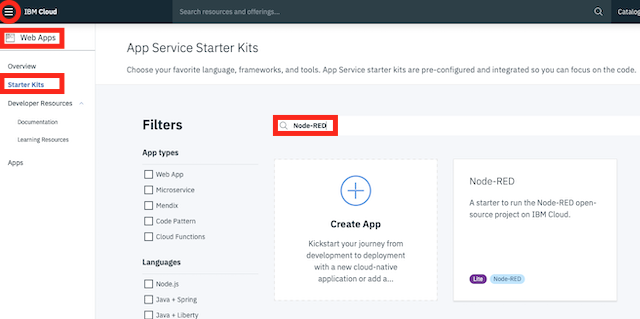
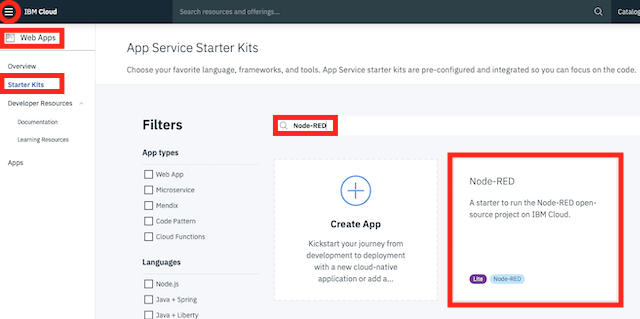
review changes

Changed region(s): [[0.6875, 0.4514, 1.0, 0.9875]]

diff --git a/en/part1/IOTCLOUD.md b/en/part1/IOTCLOUD.md
@@ -4,15 +4,14 @@
 **Part 1** - [Setup](PREREQ.md) - [First App](FIRSTAPP.md) - [WIFI](WIFI.md) - [LED](LED.md) - [DHT](DHT.md) - [**Cloud**](IOTCLOUD.md)
 ***
 
-# Deploying an application to the IBM Cloud
+# Deploying a Web App starter application to the IBM Cloud
 
 ## Lab Objectives
 
 In this lab you will learn how to deploy a starter application to the IBM Cloud.  You will learn:
 
 - How to access the cloud and set the desired location to work in
-- Access the catalog of services and select a Starter Kit to deploy
-- Deploy a Starter Kit to the IBM Cloud
+- Deploy a Web App Starter Kit to the IBM Cloud
 - Access the Starter Kit source code and update the starter application
 - Become familiar with the DevOps tooling available in the IBM Cloud
 
@@ -33,11 +32,11 @@ If you haven't previously used any of the locations you will need to create a **
 ### Step 2 - Deploy a Web App Starter Kit
 
 1. From the IBM Cloud console use the 3-bar menu (☰) and select **Web Apps** from the menu.
-2. Select **Starter Kits* from the subsequent menu and use the search field to look for Node-RED:
+2. Select **Starter Kits* from the subsequent menu and use the search field to look for Node-RED.  Select the Node-RED starter:
 
     ![Web App - Starter Kit](../images/WebAppStarterKit.png)
 
-3. Enter an application name then select the required resource groups and locations to deploy to (at time of creating these instructions the IoT platform was only available in Dallas, Frankfurt or London Regions, so you need to be working in one of these regions).
+3. Enter an application name (try to make it unique to you) then select the required resource groups and locations to deploy to (at time of creating these instructions the IoT platform was only available in Dallas, Frankfurt or London Regions, so you need to be working in one of these regions).
 4. Press the **Create** button to move to next step:
 
     ![Web App - Create App](../images/WebAppCreateApp.png)

diff --git a/en/part1/README.md b/en/part1/README.md
@@ -28,9 +28,9 @@ Before you can start working on this workshop you need to have some prerequisite
 
 ## Intro to IBM Cloud - 10 minutes
 
-## Deploy the IBM Cloud Internet of Things Starter Kit - 10 minute
+## Deploy the IBM Cloud Internet of Things starter application - 10 minute
 
-- practical [**IoT Starter Kit deploy**](IOTCLOUD.md)
+- practical [**IoT Web App Starter Kit deploy**](IOTCLOUD.md)
 
 ***
 *Quick links :*
